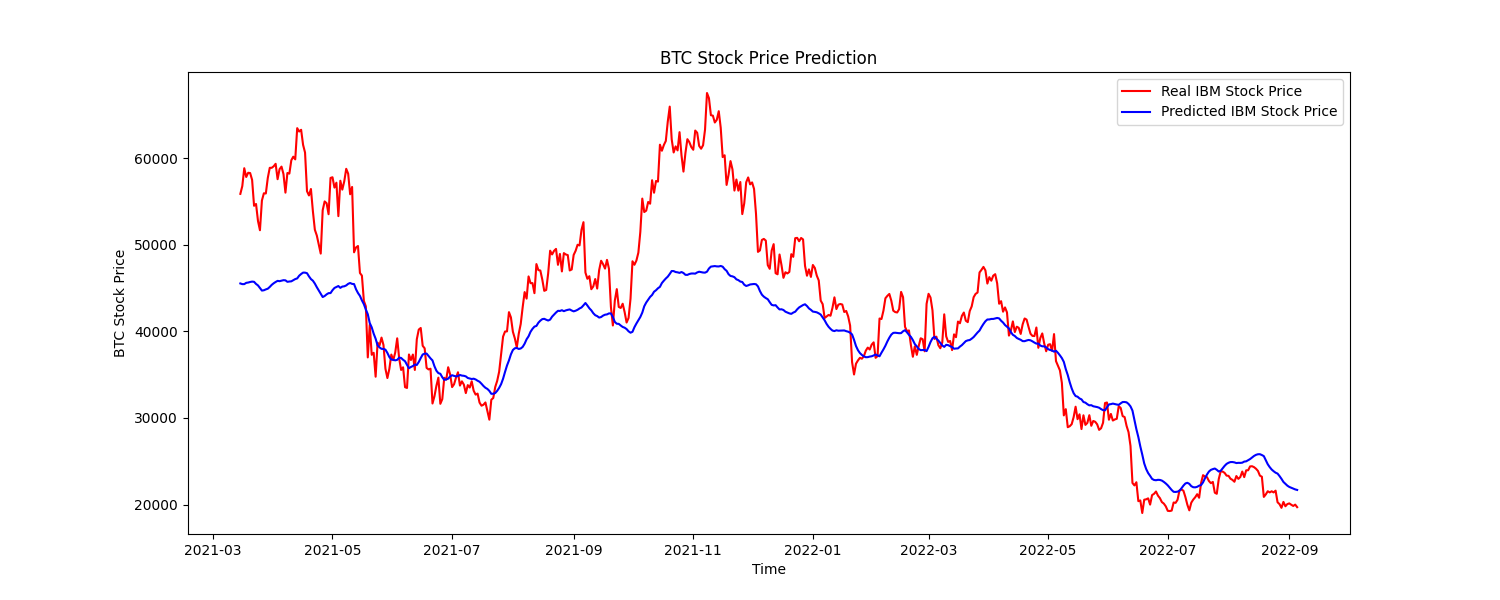
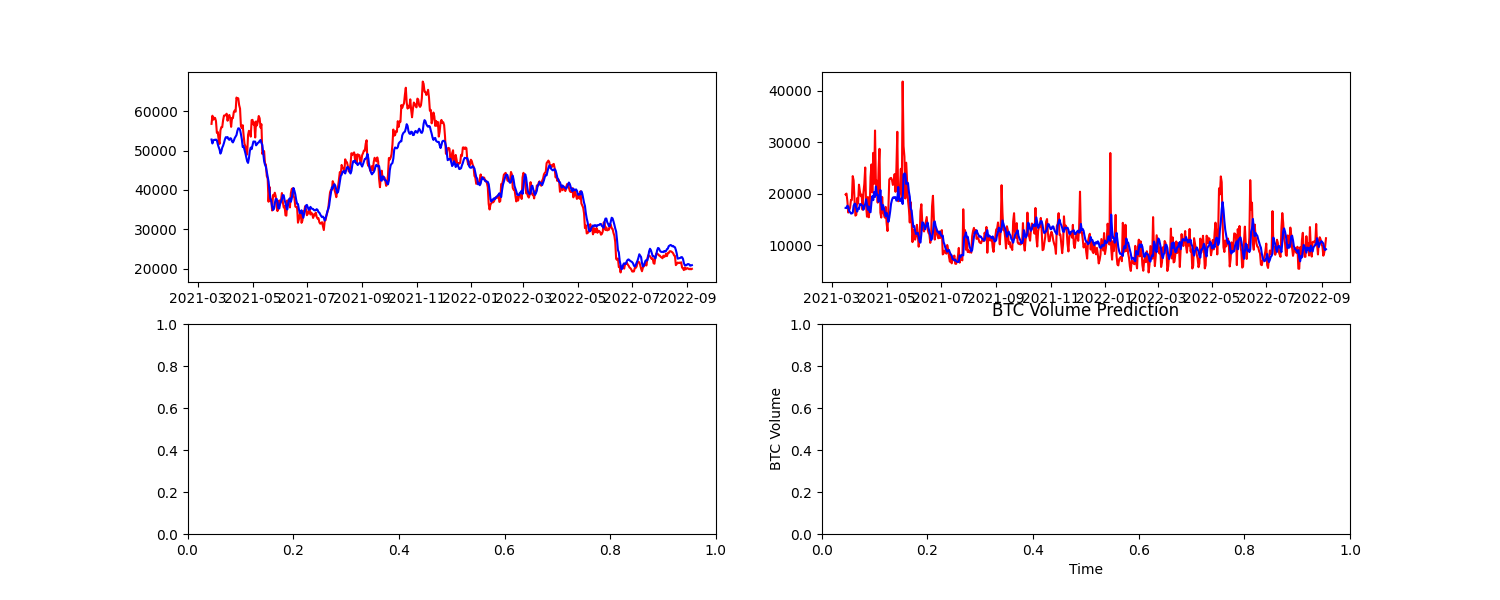
Updating the algorithm, it can work with RNN and LSTM. It works with 3D data

diff --git a/DL_Crypto_prediction/LSTM.py b/DL_Crypto_prediction/LSTM.py
@@ -12,13 +12,14 @@ from set_up_data import get_data, prepare_data, DATE_START, DATE_END
 
 class LSTM(nn.Module):
 
-    def __init__(self, input_dim=1, hidden_dim=32, num_layer=2, output_dim=1):
+    def __init__(self, input_dim=2, hidden_dim=32, num_layer=2, output_dim=2):
         super(LSTM, self).__init__()
 
         self.hidden_dim = hidden_dim
         self.num_layers = num_layer
 
         self.lstm = nn.LSTM(input_dim, hidden_dim, num_layer, batch_first=True)
+        self.rnn = nn.RNN(input_dim, hidden_dim, num_layer, batch_first=True)
 
         # readout layer -> flatten
         self.fc = nn.Linear(hidden_dim, output_dim)
@@ -33,7 +34,8 @@ class LSTM(nn.Module):
 
         # We need to detach as we are doing truncated backpropagation through time (BPTT)
         # If we don't, we'll backprop all the way to the start even after going through another batch
-        out, (hn, cn) = self.lstm(x, (h0.detach(), c0.detach()))
+        # out, (hn, cn) = self.lstm(x, (h0.detach(), c0.detach()))
+        out, hn = self.rnn(x, (h0.detach()))
 
         # Index hidden state of last time step
         # print(out.size())
@@ -89,11 +91,11 @@ def main():
     y_train = torch.from_numpy(y_train).type(torch.Tensor)
     y_test = torch.from_numpy(y_test).type(torch.Tensor)
 
-    # check data
-    # plt.plot(df['High'])
+    # # check data
+    # plt.plot(y_train)
     # plt.show()
     # print("x_train ", x_train, "\nx_test ", x_test, "\ny_train", y_train, "\ny_test", y_test)
-
+    #
     # print("x train ", x_train.size(), "x test ", x_test.size())
     # print("y train ", y_train.size(), "y test ", y_test.size())
 
@@ -123,22 +125,33 @@ def main():
     y_test = scaler.inverse_transform(y_test.detach().numpy())
 
     # calculate root mean squared error
+    # Close
     train_score = math.sqrt(mean_squared_error(y_train[:, 0], y_train_pred[:, 0]))
-    print('Train Score: %.2f RMSE' % train_score)
+    print('Train Close Score: %.2f RMSE' % train_score)
     test_score = math.sqrt(mean_squared_error(y_test[:, 0], y_test_pred[:, 0]))
-    print('Test Score: %.2f RMSE' % test_score)
+    print('Test Close Score: %.2f RMSE' % test_score)
+    # Volume
+    train_score = math.sqrt(mean_squared_error(y_train[:, 1], y_train_pred[:, 1]))
+    print('Train Vol Score: %.2f RMSE' % train_score)
+    test_score = math.sqrt(mean_squared_error(y_test[:, 1], y_test_pred[:, 1]))
+    print('Test Vol Score: %.2f RMSE' % test_score)
 
     # Visualising the results
-    figure, axes = plt.subplots(figsize=(15, 6))
-    axes.xaxis_date()
+    figure, axes = plt.subplots(2, 2, figsize=(15, 6))
+    # axes.xaxis_date()
 
-    axes.plot(df[len(df) - len(y_test):].index, y_test, color='red', label='Real BTC Stock Price')
-    axes.plot(df[len(df) - len(y_test):].index, y_test_pred, color='blue', label='Predicted BTC Stock Price')
-    # axes.xticks(np.arange(0,394,50))
-    plt.title('BTC Stock Price Prediction')
+    axes[0, 0].plot(df[len(df) - len(y_test):].index, y_test[:, 0], color='red', label='Real BTC Stock Price')
+    axes[0, 0].plot(df[len(df) - len(y_test):].index, y_test_pred[:, 0], color='blue',
+                    label='Predicted BTC Stock Price')
+    plt.title('BTC Stock Close Price Prediction')
     plt.xlabel('Time')
-    plt.ylabel('BTC Stock Price')
-    plt.legend()
+    plt.ylabel('BTC Stock Close Price')
+
+    axes[0, 1].plot(df[len(df) - len(y_test):].index, y_test[:, 1], color='red', label='Real BTC Volume')
+    axes[0, 1].plot(df[len(df) - len(y_test):].index, y_test_pred[:, 1], color='blue', label='Predicted BTC Volume')
+    plt.title('BTC Volume Prediction')
+    plt.xlabel('Time')
+    plt.ylabel('BTC Volume')
     plt.savefig('BTC_pred.png')
     plt.show()
 

diff --git a/DL_Crypto_prediction/set_up_data.py b/DL_Crypto_prediction/set_up_data.py
@@ -44,11 +44,11 @@ def create_pattern_set(data_target, steps=7):
     y_train = []
 
     for day in range(steps, data_target.shape[0]):
-        x_train.append(data_target[day-steps:day, 0])
-        y_train.append(data_target[day, 0])
+        x_train.append(data_target[day-steps:day])
+        y_train.append(data_target[day])
 
     x_train, y_train = np.array(x_train), np.array(y_train)
-    x_train = np.reshape(x_train, (x_train.shape[0], x_train.shape[1], 1))
+    x_train = np.reshape(x_train, (x_train.shape[0], x_train.shape[1], 2))
 
     return x_train, y_train
 
@@ -60,16 +60,29 @@ def prepare_data(df, step=50):
     whole_train_data = df.iloc[:train_df_len]
     whole_test_data = df[train_df_len - step:]
 
-    close_train_data = whole_train_data['Close'].values
+    # first dim -> close data
+    close_train_data = whole_train_data['Close'].values.reshape(train_df_len, 1)
     close_test_data = whole_test_data['Close'].values.reshape(-1, 1)
 
+    # 2nd dim -> Volume
+    vol_train_data = whole_train_data['Volume'].values.reshape(train_df_len, 1)
+    vol_test_data = whole_test_data['Volume'].values.reshape(-1, 1)
+
+    # scaled data
     scaled_close_train_data, close_scaler = get_scaled_data(close_train_data)
-    x_train, y_train = create_pattern_set(scaled_close_train_data, steps=50)
-
     scaled_close_test_data = close_scaler.transform(close_test_data)
-    x_test, y_test = create_pattern_set(scaled_close_test_data, steps=50)
 
-    y_train = np.reshape(y_train, (y_train.shape[0], 1))
-    y_test = np.reshape(y_test, (y_test.shape[0], 1))
+    scaled_vol_train_data, vol_scaler = get_scaled_data(vol_train_data)
+    scaled_vol_test_data = vol_scaler.transform(vol_test_data)
+
+    # combine data
+    combined_train_data = np.concatenate((scaled_close_train_data, scaled_vol_train_data), axis=1)
+    combined_test_data = np.concatenate((scaled_close_test_data, scaled_vol_test_data), axis=1)
+
+    x_train, y_train = create_pattern_set(combined_train_data, steps=50)
+    x_test, y_test = create_pattern_set(combined_test_data, steps=50)
+
+    y_train = np.reshape(y_train, (y_train.shape[0], 2))
+    y_test = np.reshape(y_test, (y_test.shape[0], 2))
 
     return x_train, x_test, y_train, y_test, close_scaler
